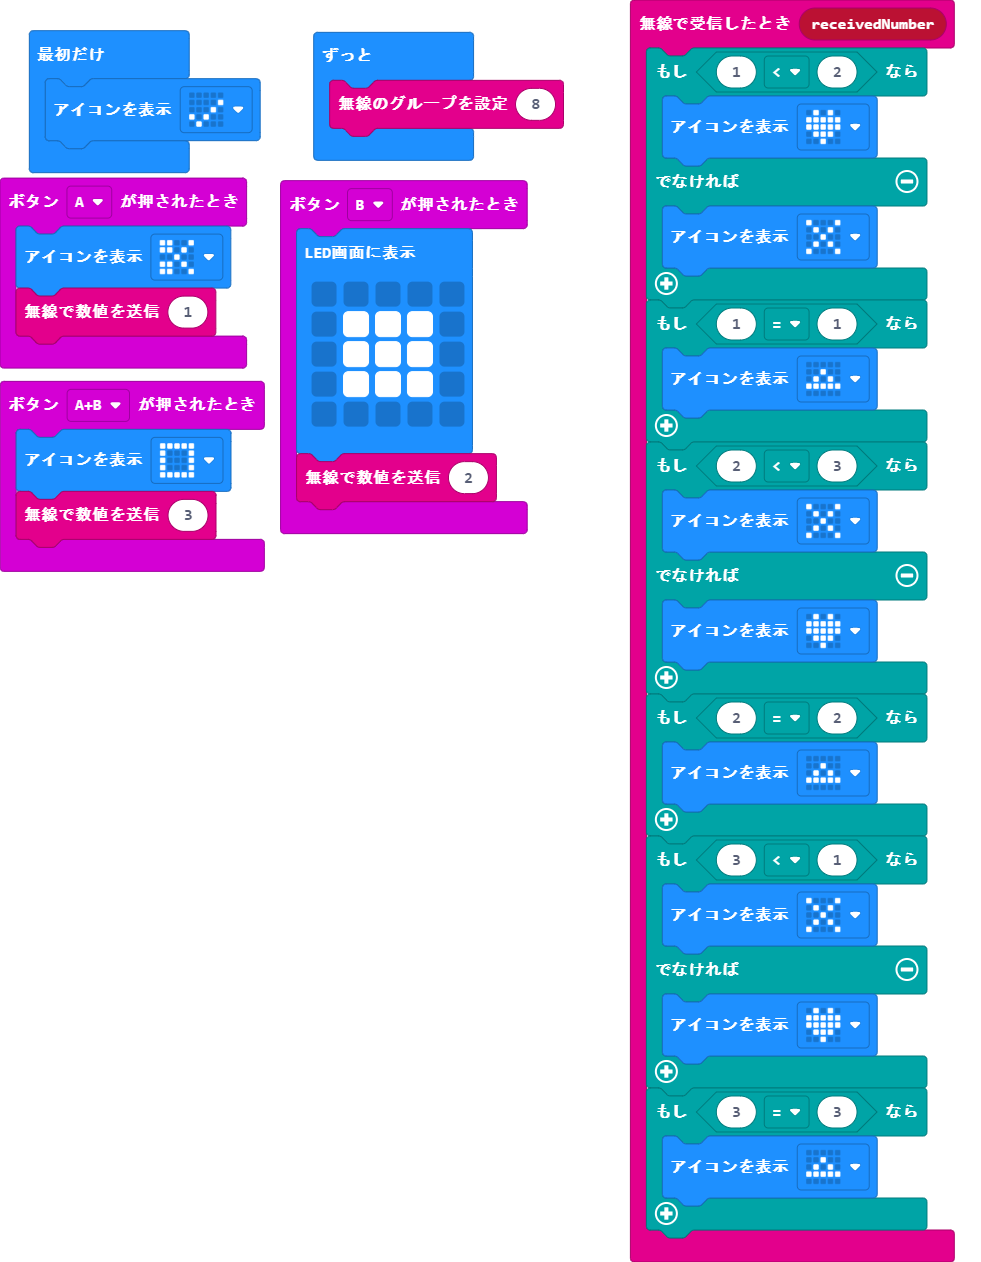
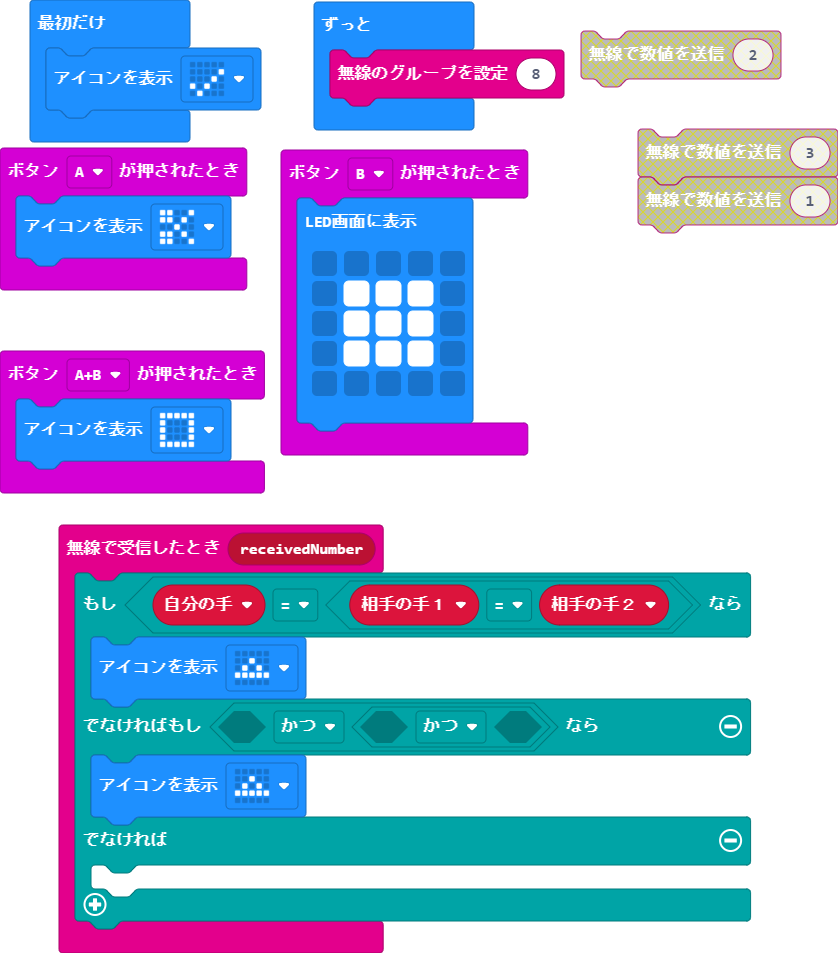
Update main.blocks, main.ts

diff --git a/main.ts b/main.ts
@@ -1,36 +1,20 @@
 radio.onReceivedNumber(function (receivedNumber) {
-    if (1 < 2) {
-        basic.showIcon(IconNames.Heart)
-    } else {
-        basic.showIcon(IconNames.No)
-    }
-    if (1 == 1) {
+    let 相手の手２ = 0
+    let 相手の手１ = 0
+    let 自分の手 = false
+    if (自分の手 == (相手の手１ == 相手の手２)) {
         basic.showIcon(IconNames.Triangle)
-    }
-    if (2 < 3) {
-        basic.showIcon(IconNames.No)
-    } else {
-        basic.showIcon(IconNames.Heart)
-    }
-    if (2 == 2) {
+    } else if (false && (false && false)) {
         basic.showIcon(IconNames.Triangle)
-    }
-    if (3 < 1) {
-        basic.showIcon(IconNames.No)
     } else {
-        basic.showIcon(IconNames.Heart)
-    }
-    if (3 == 3) {
-        basic.showIcon(IconNames.Triangle)
+    	
     }
 })
 input.onButtonPressed(Button.A, function () {
     basic.showIcon(IconNames.Scissors)
-    radio.sendNumber(1)
 })
 input.onButtonPressed(Button.AB, function () {
     basic.showIcon(IconNames.Square)
-    radio.sendNumber(3)
 })
 input.onButtonPressed(Button.B, function () {
     basic.showLeds(`
@@ -40,7 +24,6 @@ input.onButtonPressed(Button.B, function () {
         . # # # .
         . . . . .
         `)
-    radio.sendNumber(2)
 })
 basic.showIcon(IconNames.Yes)
 basic.forever(function () {
